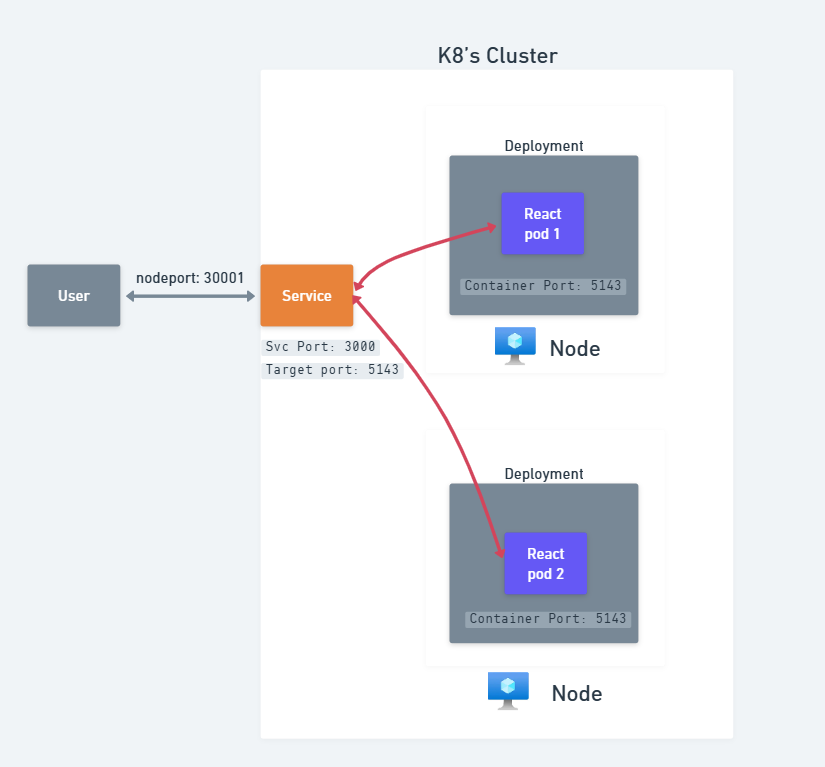
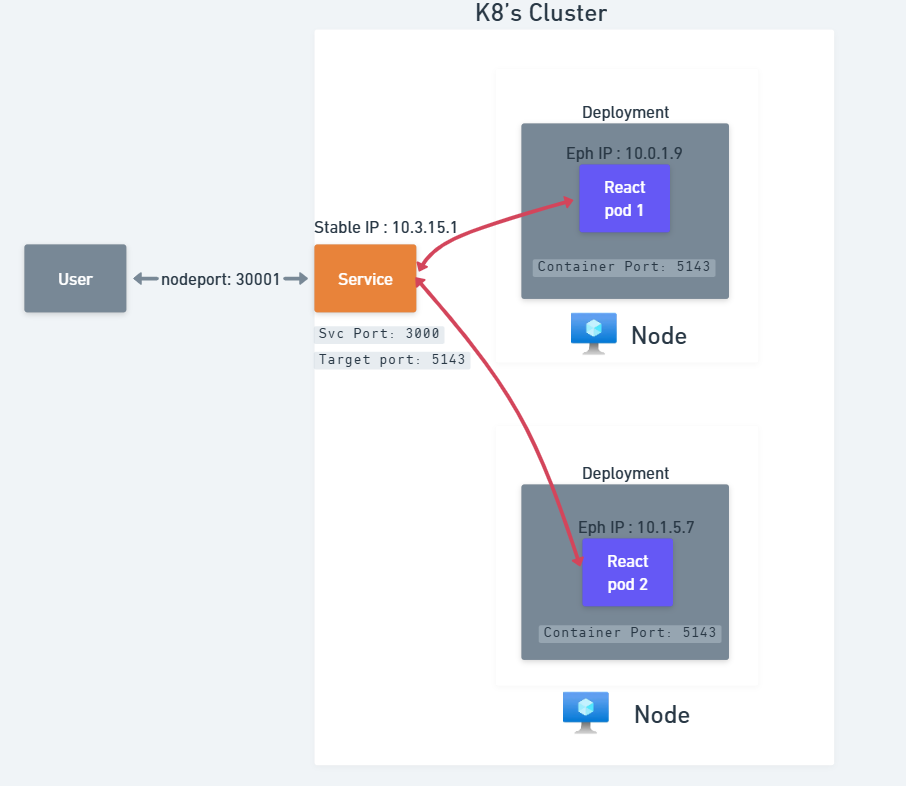
feat: stable section 2

diff --git a/tech-docs/docs/tech/devops/Section 2/slide6.md b/tech-docs/docs/tech/devops/Section 2/slide6.md
@@ -91,7 +91,7 @@ http://<node-ip>:30080/
 Example:
 
 ```sh
-http://52.10.25.13 (external IP)
+http://52.10.25.13 (external Public IP)
 ```
 
 ## Time to Practice
@@ -200,33 +200,38 @@ http://52.10.25.13 (external IP)
       type: ClusterIP
     ```
 
-11. Lets delete the previous service
+11. Quick question: How does above service know which pods to route the traffic
+    to ?
+
+    Answer: Using `label selectors`
+
+12. Lets delete the previous service
 
     ```sh
      kubectl delete service nginx-deployment
     ```
 
-12. Apply the service using the below command
+13. Apply the service using the below command
 
     ```sh
      kubectl apply -f nginx-service.yaml
     ```
 
-13. Verify the service is created using the below command
+14. Verify the service is created using the below command
 
     ```sh
      kubectl get services
     ```
 
-14. Now lets describe the service to see the details
+15. Now lets describe the service to see the details
 
     ```sh
      kubectl describe service nginx-cluster-ip
     ```
 
-15. You can see the service created endpoints for all the pods in the nodes
+16. You can see the service created endpoints for all the pods in the nodes
 
-16. To debug whether the `service` created & working we can use minikube
+17. To debug whether the `service` created & working we can use minikube
     service command
 
     ```sh
@@ -237,7 +242,7 @@ http://52.10.25.13 (external IP)
     minikube service nginx-deployment
     ```
 
-17. Lets create a `NodePort` service using the below yaml file `nginx-node-port-service.yaml`
+18. Lets create a `NodePort` service using the below yaml file `nginx-node-port-service.yaml`
 
     ```yaml
     apiVersion: v1
@@ -257,31 +262,31 @@ http://52.10.25.13 (external IP)
           nodePort: 30080
     ```
 
-18. Delete all the previous service
+19. Delete all the previous service
 
     ```sh
      kubectl delete service nginx-cluster-ip
     ```
 
-19. Apply the `NodePort` service using the below command
+20. Apply the `NodePort` service using the below command
 
     ```sh
      kubectl apply -f nginx-node-port-service.yaml
     ```
 
-20. Now we use the `minikube` service command to verify the service is working
+21. Now we use the `minikube` service command to verify the service is working
 
     ```sh
      minikube service nginx-node-port
     ```
 
-21. You should see the nginx welcome page in your browser
+22. You should see the nginx welcome page in your browser
 
-22. Unfortunately, we cannot create `LoadBalancer` service in minikube as it requires
+23. Unfortunately, we cannot create `LoadBalancer` service in minikube as it requires
     `cloud provider integration`. Let's see that in action when we deploy in
     cloud provider like `Azure`.
 
-23. For completeness, here is the yaml for `LoadBalancer` service
+24. For completeness, here is the yaml for `LoadBalancer` service
 
     ```yaml
     apiVersion: v1
@@ -300,13 +305,13 @@ http://52.10.25.13 (external IP)
       type: LoadBalancer
     ```
 
-24. Lets delete the previous service
+25. Lets delete the previous service
 
     ```sh
      kubectl delete service nginx-node-port
     ```
 
-25. Apply the `LoadBalancer` service using the below command
+26. Apply the `LoadBalancer` service using the below command
 
     ```sh
      kubectl apply -f nginx-load-balancer-service.yaml
@@ -314,9 +319,9 @@ http://52.10.25.13 (external IP)
 
     ![k8s_svc_p_5](assets/k8s_svc_p_5.png)
 
-26. Since we are using minikube, the external IP will be in `pending` state as
+27. Since we are using minikube, the external IP will be in `pending` state as
     minikube does not support LoadBalancer service.
-27. Recall the `cloud controller manager`
+28. Recall the `cloud controller manager`
     from control plane architecture which is responsible for provisioning
     cloud resources like Load balancers etc.,
 
@@ -338,11 +343,22 @@ selector:
 1. Any Pod with `app: myapp` will automatically be part of the Service’s backend.
 2. This allows Kubernetes to dynamically add/remove pods as Deployment scales up/down.
 
-## Real world Example
+## Example Architecture
 
-Web application with frontend, backend & database
+Let's say you have a python App app running in k8s cluster
+& it also needs to communicate to Node js backend service.
 
 ![k8s_svc_2](assets/k8s_svc_2.png)
+
+:::important
+
+1. You can communicate with service name inside the cluster.
+2. For example, python app can reach the backend nodejs service using `http://nodejs:4000`
+   (assuming nodejs service is named `nodejs` and running on port `4000`)
+3. This is because k8s has built-in DNS which resolves service names to their
+   cluster IPs.
+
+:::
 
 ## Summary
 
@@ -354,5 +370,3 @@ Web application with frontend, backend & database
    1. ClusterIP → inside cluster
    2. NodePort → node-level port
    3. LoadBalancer → public access via cloud (k8s use cloud controller manager)
-6. You also have a good understanding on how real world applications are architected
-   using multiple services.

diff --git a/tech-docs/docs/tech/devops/Section 2/slide7.md b/tech-docs/docs/tech/devops/Section 2/slide7.md
@@ -29,8 +29,10 @@ what we have learned so far.
    docker build -t <your-dockerhub-username>/<image-name>:<tag> .
    ```
 
+   Example:
+
    ```sh
-    docker build -t sathish1996/node-app:1.0.0 .
+   docker build -t sathish1996/node-app:1.0.0 .
    ```
 
 4. Push the docker image to docker hub using the below command
@@ -39,12 +41,60 @@ what we have learned so far.
    docker push <your-dockerhub-username>/<image-name>:<tag>
    ```
 
+   Example:
+
    ```sh
-    docker push sathish1996/node-app:1.0.0
+   docker push sathish1996/node-app:1.0.0
    ```
 
 5. Now create a deployment yaml file `deployment.yaml` & `service.yaml` file &
    use the uploaded docker image in the deployment file.
+
+   deployment.yaml
+
+   ```yaml
+   apiVersion: apps/v1
+   kind: Deployment
+   metadata:
+     name: backend
+     labels:
+       app: backend
+   spec:
+     replicas: 3
+     selector:
+       matchLabels:
+         app: backend
+     template:
+       metadata:
+         labels:
+           app: backend
+       spec:
+         containers:
+           - image: sathish1996/node-app:1.0.0
+             name: backend
+             ports:
+               - containerPort: 4000
+   ```
+
+   service.yaml
+
+   ```yaml
+   apiVersion: v1
+   kind: Service
+   metadata:
+     name: backend
+     labels:
+       app: backend
+   spec:
+     selector:
+       app: backend
+     type: NodePort
+     ports:
+       - port: 4000
+         protocol: TCP
+         targetPort: 4000
+         nodePort: 30080
+   ```
 
 6. Apply the deployment using the below command
 

diff --git a/tech-docs/docs/tech/devops/Section 2/slide3.md b/tech-docs/docs/tech/devops/Section 2/slide3.md
@@ -131,6 +131,8 @@ Let's see what `Deployment` is and how it helps to manage pods.
          containers:
            - image: nginx
              name: nginx
+             ports:
+               - containerPort: 80
    ```
 
    ![k8s_deployment](assets/k8s_deployment.png)
